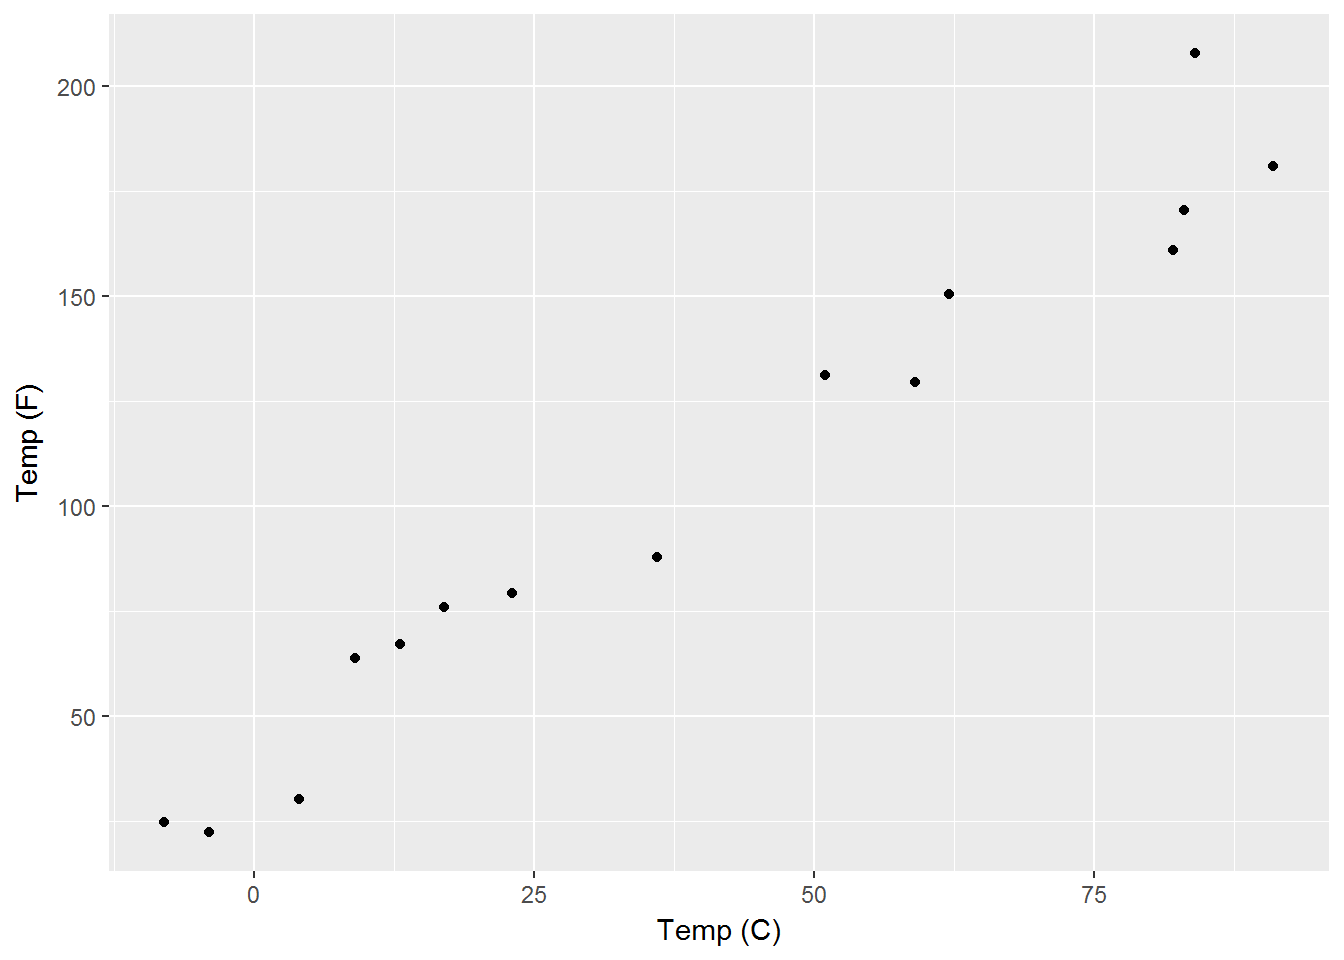
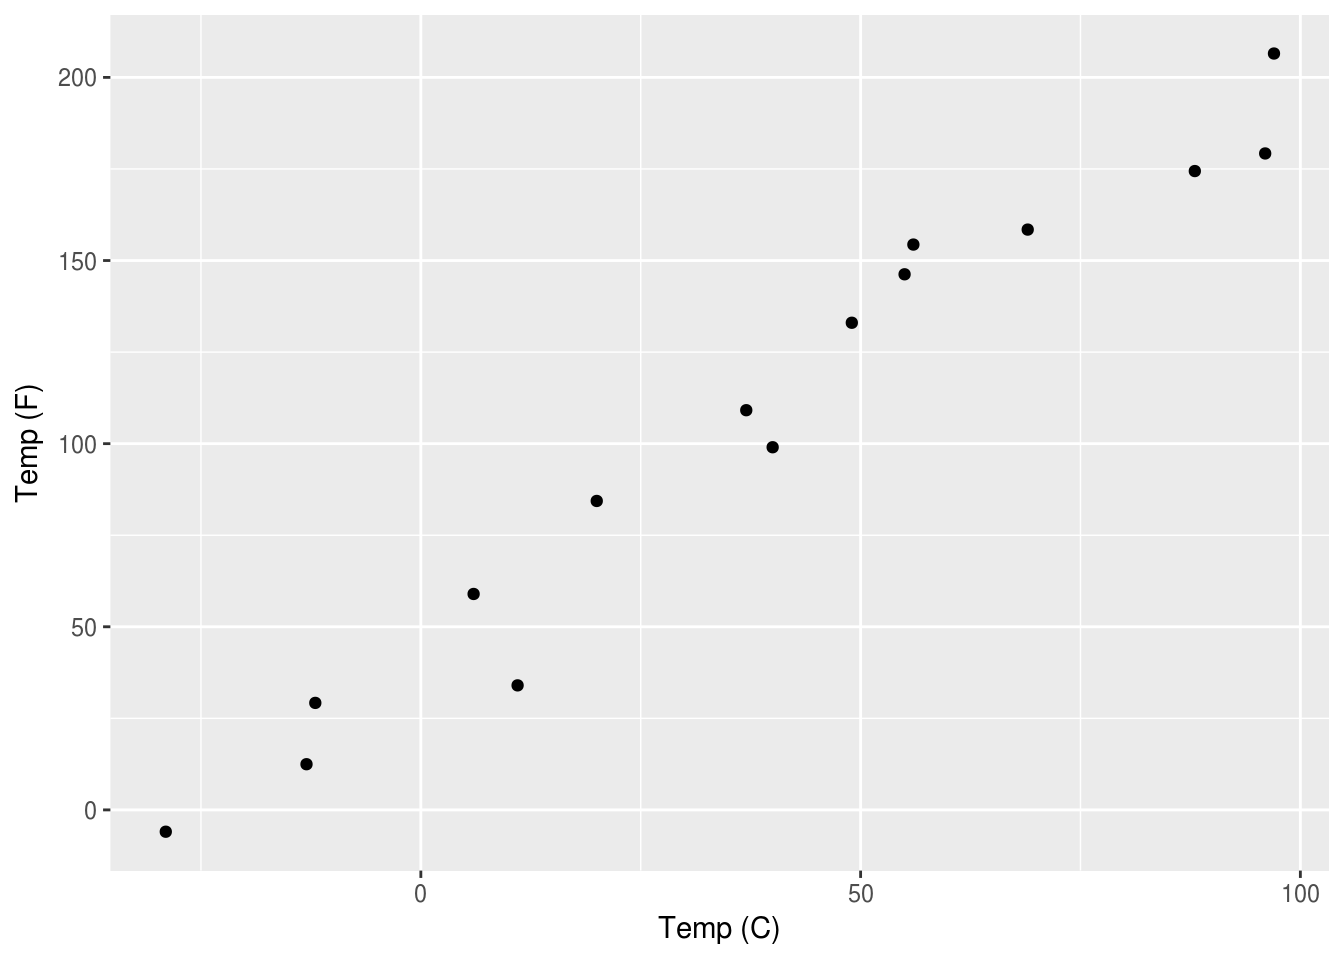
worked on lin reg intro

diff --git a/smml/_book/lin-reg.html b/smml/_book/lin-reg.html
@@ -102,6 +102,10 @@ code > span.in { color: #60a0b0; font-weight: bold; font-style: italic; } /* Inf
 <li class="chapter" data-level="1" data-path="index.html"><a href="index.html"><i class="fa fa-check"></i><b>1</b> bibliography: [book.bib, packages.bib]</a></li>
 <li class="chapter" data-level="2" data-path="lin-reg.html"><a href="lin-reg.html"><i class="fa fa-check"></i><b>2</b> Linear Regression</a><ul>
 <li class="chapter" data-level="2.1" data-path="lin-reg.html"><a href="lin-reg.html#overview"><i class="fa fa-check"></i><b>2.1</b> Overview</a></li>
+<li class="chapter" data-level="2.2" data-path="lin-reg.html"><a href="lin-reg.html#coefficient-calculation"><i class="fa fa-check"></i><b>2.2</b> Coefficient Calculation</a><ul>
+<li class="chapter" data-level="2.2.1" data-path="lin-reg.html"><a href="lin-reg.html#least-sqaures"><i class="fa fa-check"></i><b>2.2.1</b> Least Sqaures</a></li>
+</ul></li>
+<li class="chapter" data-level="2.3" data-path="lin-reg.html"><a href="lin-reg.html#variable-parameters"><i class="fa fa-check"></i><b>2.3</b> Variable parameters</a></li>
 </ul></li>
 <li class="chapter" data-level="3" data-path="literature.html"><a href="literature.html"><i class="fa fa-check"></i><b>3</b> Literature</a></li>
 </ul>
@@ -151,40 +155,40 @@ code > span.in { color: #60a0b0; font-weight: bold; font-style: italic; } /* Inf
 </thead>
 <tbody>
 <tr class="odd">
-<td align="left">-8</td>
-<td align="left">17.6</td>
-<td align="left">24.8</td>
-<td align="left">7.2</td>
+<td align="left">-29</td>
+<td align="left">-20.2</td>
+<td align="left">-6.0</td>
+<td align="left">14.2</td>
 </tr>
 <tr class="even">
-<td align="left">-4</td>
-<td align="left">24.8</td>
-<td align="left">22.4</td>
-<td align="left">-2.4</td>
+<td align="left">-13</td>
+<td align="left">8.6</td>
+<td align="left">12.5</td>
+<td align="left">3.9</td>
 </tr>
 <tr class="odd">
-<td align="left">4</td>
-<td align="left">39.2</td>
-<td align="left">30.4</td>
-<td align="left">-8.8</td>
+<td align="left">-12</td>
+<td align="left">10.4</td>
+<td align="left">29.2</td>
+<td align="left">18.8</td>
 </tr>
 <tr class="even">
-<td align="left">9</td>
-<td align="left">48.2</td>
-<td align="left">63.8</td>
-<td align="left">15.6</td>
+<td align="left">6</td>
+<td align="left">42.8</td>
+<td align="left">59.0</td>
+<td align="left">16.2</td>
 </tr>
 <tr class="odd">
-<td align="left">13</td>
-<td align="left">55.4</td>
-<td align="left">67.2</td>
-<td align="left">11.8</td>
+<td align="left">11</td>
+<td align="left">51.8</td>
+<td align="left">34.0</td>
+<td align="left">-17.8</td>
 </tr>
 <tr class="even">
-<td align="left">17</td>
-<td align="left">62.6</td>
-<td align="left">75.9</td>
-<td align="left">13.3</td>
+<td align="left">20</td>
+<td align="left">68.0</td>
+<td align="left">84.4</td>
+<td align="left">16.4</td>
 </tr>
 </tbody>
 </table>
@@ -193,16 +197,33 @@ code > span.in { color: #60a0b0; font-weight: bold; font-style: italic; } /* Inf
   \hat{Y} = \hat{a}_0 + \hat{a}_1 \cdot X_1
   \tag{2.3}
 \end{equation}\]</span>
-<p>the difference between So to be more precise, I can rewrite to include the fact that the output values, which in this case is the temperature in Farenheit, is actually an estimate of</p>
-<p>I can rewrite the general formula for linear regression and this time include a term, <span class="math inline">\(\epsilon\)</span> by standard notation, to represent the error.</p>
-<p>which is almost get the general formula for simple linear regression. I am writing the relationship between the input and output variables as approxiamtely, because the readings were not completely accurate.</p>
-<p>as applied to our data is not completely which is almost get the general formula for simple linear regression. I am writing the relationship between the input and output variables as approxiamtely, because the readings were not completely accurate.</p>
-<p>Unlike our previous equation this time our equation <a href="lin-reg.html#eq:SimpLinReg">(2.1)</a> has an equals sign is the general formula for simple linear regression. When more input variables are added the simple part of the term is dropped and it is referred to as general regression and takes the form</p>
+<p>When more input variables are added the simple part of the term is dropped and it is referred to as general regression and takes the form</p>
 <span class="math display" id="eq:LinReg">\[\begin{equation} 
   Y = a_0 + a_1\cdot X_1 + a_2\cdot X_2 + \ldots a_p\cdot X_p + \epsilon = a_0 + \sum\limits_{i=1}^p(a_i\cdot X_i) + \epsilon
   \tag{2.4}
 \end{equation}\]</span>
 <p>Just as in simple linear regression, the <span class="math inline">\(a\)</span>’s in front of the input variables control the slope of the line, <span class="math inline">\(a_0\)</span> controls the intercept of the line. Taken together the <span class="math inline">\(a\)</span>’s are referred to as the coefficients. <span class="math inline">\(\epsilon\)</span> is the error as measured by the distance from the points on the right hand side to the true values on the left hand side of the equation.</p>
+<p>Going back to our original simple linear regression problem involving temperature measurments. Since we know that the relationship between the input and output variables is not strictly goverened by the equation <span class="math inline">\(F = \dfrac{9}{5}\cdot C + 32\)</span>, we need a method of determining the coefficients which actually govern the relationship between our given input and outputs.</p>
+</div>
+<div id="coefficient-calculation" class="section level2">
+<h2><span class="header-section-number">2.2</span> Coefficient Calculation</h2>
+<div id="least-sqaures" class="section level3">
+<h3><span class="header-section-number">2.2.1</span> Least Sqaures</h3>
+<p>The general idea of the least squares method is that you want to pick coefficents which minimize the differences between the given output and the output calculated from the right hand side of equation <a href="lin-reg.html#eq:SimpLinReg">(2.1)</a>. What makes this process least squares is that you calculate the difference using the sum of the squared differences, termed the residual sum of sqaures (RSS). Formally the residual sum of squares for the general form of linear regression in equation <a href="lin-reg.html#eq:LinReg">(2.4)</a> can be written as :</p>
+<span class="math display" id="eq:RSS">\[\begin{equation}
+  RSS(a) = \sum\limits_{i=1}^N\left(Y_i - \left[a_0 + \sum\limits_{j=1}^p a_j\cdot X_{i,j} \right]\right)  
+  \tag{2.5}
+\end{equation}\]</span>
+</div>
+</div>
+<div id="variable-parameters" class="section level2">
+<h2><span class="header-section-number">2.3</span> Variable parameters</h2>
+<p>The values of the input and output parameters in a linear regression model are as follows. - Input Values can be any of the following - numerical values, also referred to as quantitative values - Dummy va</p>
+<p>the difference between So to be more precise, I can rewrite to include the fact that the output values, which in this case is the temperature in Farenheit, is actually an estimate of</p>
+<p>I can rewrite the general formula for linear regression and this time include a term, <span class="math inline">\(\epsilon\)</span> by standard notation, to represent the error.</p>
+<p>which is almost get the general formula for simple linear regression. I am writing the relationship between the input and output variables as approxiamtely, because the readings were not completely accurate.</p>
+<p>as applied to our data is not completely which is almost get the general formula for simple linear regression. I am writing the relationship between the input and output variables as approxiamtely, because the readings were not completely accurate.</p>
+<p>Unlike our previous equation this time our equation <a href="lin-reg.html#eq:SimpLinReg">(2.1)</a> has an equals sign is the general formula for simple linear regression.</p>
 <p>You can label chapter and section titles using <code>{#label}</code> after them, e.g., we can reference Chapter <a href="#intro"><strong>??</strong></a>. If you do not manually label them, there will be automatic labels anyway, e.g., Chapter <a href="#methods"><strong>??</strong></a>.</p>
 <p>Figures and tables with captions will be placed in <code>figure</code> and <code>table</code> environments, respectively.</p>
 <div class="sourceCode"><pre class="sourceCode r"><code class="sourceCode r"><span class="kw">par</span>(<span class="dt">mar =</span> <span class="kw">c</span>(<span class="dv">4</span>, <span class="dv">4</span>, .<span class="dv">1</span>, .<span class="dv">1</span>))
